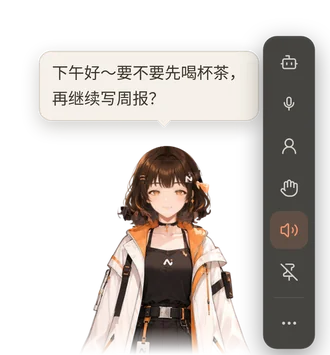
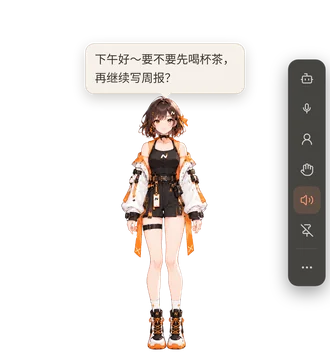
site: v1.0.3 — new mascot + refreshed app screenshots (packaged 1.0.3), add v1.0.3 changelog (zh+en), point download links to v1.0.3, bump cache-bust

diff --git a/js/i18n.js b/js/i18n.js
@@ -56,7 +56,7 @@
       "features.title": "桌面上的完整 AI 工作台",
       "features.lead": "从对话到自动化，从云端到完全离线——按你的方式使用。",
       "features.mascot.title": "桌面伙伴",
-      "features.mascot.desc": "会眨眼、会呼吸的分层立绘；摸头互动、对话气泡、拖文件总结。",
+      "features.mascot.desc": "全身 Rive 角色：会眨眼、挥手、有表情，说话时口型同步；摸头互动、对话气泡、拖文件总结。",
       "features.chat.title": "AI 对话",
       "features.chat.desc": "流式输出、会话列表、框选屏幕提问，干净好用的对话窗口。",
       "features.providers.title": "多供应商",
@@ -253,8 +253,15 @@
       "cl.lead": "Nomi·诺米 每个版本的更新内容，最新版本在前。",
       "cl.release": "查看 GitHub Release →",
       "meta.changelog.title": "更新日志 — Nomi·诺米",
-      "meta.changelog.desc": "Nomi·诺米各版本更新日志：v1.0.2、v1.0.1、v1.0.0。",
+      "meta.changelog.desc": "Nomi·诺米各版本更新日志：v1.0.3、v1.0.2、v1.0.1、v1.0.0。",
       "nav.changelog": "更新日志",
+      "cl.v103.title": "v1.0.3 — 全新看板娘、斜杠命令与性能提升",
+      "cl.v103.i1": "看板娘全新升级：桌面角色换成全身 Rive 角色，分层服装与手臂协同运动（挥手、问好、欢呼），有表情、眨眼，说话时口型同步；Rive 无法启动时自动回退到分层 2D 渲染器。",
+      "cl.v103.i2": "看板娘可调大小：约 30%–150%（受屏幕限制），支持 Ctrl/⌘ + 滚轮、Ctrl/⌘ + + / - / 0、右键菜单与「设置 → 通用 → 看板娘大小」滑块；脚底位置不动，大小会被记住。",
+      "cl.v103.i3": "所有对话支持斜杠命令：在 Nomi、Claude Code、Codex、Grok、dsh 中输入 / 即可打开分组、可模糊搜索的命令面板；/context、/cost、/status、/model 等在本地执行并以卡片显示，未知命令不会被误发给模型。",
+      "cl.v103.i4": "所有对话同一套视图，并新增 Grok Build 编程助手端点：紧凑工具行、可折叠分组、彩色 diff、等待状态与每轮耗时 / Token / 费用；订阅额度改为按工具的卡片，开发模式新增端点信息卡。",
+      "cl.v103.i5": "性能：切换会话中位延迟 252 ms → 27 ms，流式回复主线程占用 34.8% → 8.8%，对话窗口首屏 JS 由 901 KB 降到 737 KB；空闲 30 分钟的 Claude Code 进程会自动回收并在下一条消息续接。",
+      "cl.v103.i6": "修复与行为变化：「分叉为新对话」立即显示在侧栏；看板娘气泡不再显示原始 Markdown；「没有找到可用的麦克风」提示自动消失；TTS 不再回退到系统语音；默认唤醒词改为「你好，诺米」。",
       "cl.v102.title": "v1.0.2 — 用量统计与体验改进",
       "cl.v102.i1": "用量与费用：统计 Nomi 对话与本机编程工具（Claude Code、Codex、dsh、Gemini CLI、Qwen Code、OpenCode、GitHub Copilot CLI、Kimi、Aider）的 Token 用量与预估费用，含趋势、分布、年度热力图、CSV 导出与可编辑价格表；数据只保存在本机，日 / 月预算在 80% 与 100% 时提醒。",
       "cl.v102.i2": "同步价格与订阅额度：仅在点击时下载 models.dev 公开价格表；订阅额度卡片的“刷新”由官方 CLI 用自己的登录态获取，Nomi 不读取、不保存登录凭据，也不在后台轮询。",
@@ -327,7 +334,7 @@
       "features.title": "A full AI workbench on your desktop",
       "features.lead": "From chat to automation, cloud to fully offline — use it your way.",
       "features.mascot.title": "Desktop companion",
-      "features.mascot.desc": "Layered art that blinks and breathes; head pats, speech bubbles, drag files to summarize.",
+      "features.mascot.desc": "A full-body Rive character that blinks, waves, emotes and lip-syncs; head pats, speech bubbles, drag files to summarize.",
       "features.chat.title": "AI chat",
       "features.chat.desc": "Streaming replies, session list, screen-region questions — a clean chat window.",
       "features.providers.title": "Multi-provider",
@@ -524,8 +531,15 @@
       "cl.lead": "What changed in each Nomi release, newest first.",
       "cl.release": "View on GitHub Release →",
       "meta.changelog.title": "Changelog — Nomi",
-      "meta.changelog.desc": "Nomi release notes: v1.0.2, v1.0.1 and v1.0.0.",
+      "meta.changelog.desc": "Nomi release notes: v1.0.3, v1.0.2, v1.0.1 and v1.0.0.",
       "nav.changelog": "Changelog",
+      "cl.v103.title": "v1.0.3 — new mascot, slash commands and speed",
+      "cl.v103.i1": "A brand-new mascot: the desktop character is now a full-body Rive character with layered clothing and arms that move together (wave, hello, cheer), facial expressions, blinking and lip-sync while she talks; if Rive cannot start, Nomi falls back to the layered 2D renderer.",
+      "cl.v103.i2": "Resizable mascot: about 30%–150% (capped by your display) with Ctrl/⌘ + scroll, Ctrl/⌘ + + / - / 0, the right-click menu and the Settings → General → Mascot size slider; her feet stay put and the size is remembered.",
+      "cl.v103.i3": "Slash commands everywhere: type / in Nomi, Claude Code, Codex, Grok or dsh for a grouped, fuzzy-searchable palette; /context, /cost, /status, /model and more run locally and show as cards, and unknown commands are never sent to the model by accident.",
+      "cl.v103.i4": "One conversation view for everything, plus a Grok Build coding-agent endpoint: compact tool rows, foldable groups, coloured diffs, waiting states and per-turn duration / tokens / cost; subscription quota is now per-tool cards, and dev mode gets an endpoint info card.",
+      "cl.v103.i5": "Performance: median conversation-switch latency 252 ms → 27 ms, main-thread busy time while streaming 34.8% → 8.8%, the chat window's entry JS 901 KB → 737 KB; a Claude Code process idle for 30 minutes is reclaimed and resumed on the next message.",
+      "cl.v103.i6": "Fixes and behavior changes: Fork as new chat shows up in the sidebar at once; the mascot speech bubble no longer shows raw Markdown; the “No microphone found” message dismisses itself; TTS no longer falls back to system speech; the default wake phrase is now 你好，诺米.",
       "cl.v102.title": "v1.0.2 — usage tracking and polish",
       "cl.v102.i1": "Usage & cost: token usage and estimated cost for Nomi chats and your local coding tools (Claude Code, Codex, dsh, Gemini CLI, Qwen Code, OpenCode, GitHub Copilot CLI, Kimi, Aider), with trends, breakdowns, a yearly heatmap, CSV export and an editable price table. Data stays on your computer; daily / monthly budget alerts at 80% and 100%.",
       "cl.v102.i2": "Price sync and subscription quota: the public models.dev price table is downloaded only when you click; the quota card's Refresh asks the official CLI to fetch it with its own login — Nomi never reads or stores your credentials and never polls in the background.",

diff --git a/download.html b/download.html
@@ -8,7 +8,7 @@
   <title>下载 — Nomi·诺米</title>
   <link rel="icon" href="assets/brand/nomi-mark.svg" type="image/svg+xml" />
   <link rel="preload" href="assets/fonts/nunito-latin.woff2" as="font" type="font/woff2" crossorigin />
-  <link rel="stylesheet" href="css/styles.css?v=20261016e" />
+  <link rel="stylesheet" href="css/styles.css?v=20261018a" />
 </head>
 <body data-page="download">
   <header class="site-header">
@@ -55,26 +55,26 @@
           <article class="platform-card">
             <div class="os-icon" aria-hidden="true"><svg viewBox="0 0 24 24" fill="currentColor" aria-hidden="true"><path d="M3 5.5L10.5 4.4v7.1H3V5.5zm0 13L10.5 19.6v-7.1H3v6zm8.2-13.2L21 3v8.5h-9.8V5.3zM12.2 19.7L21 21v-8.5h-8.8v7.2z"/></svg></div>
             <h3>Windows</h3>
-            <p class="pkg">Nomi-Setup-1.0.2.exe</p>
+            <p class="pkg">Nomi-Setup-1.0.3.exe</p>
             <p class="req" data-i18n="dl.windows.req">Windows 10 及以上</p>
-            <a class="btn btn-primary" id="dl-win" href="https://github.com/Cookieboty/nomi-ai/releases/download/v1.0.2/Nomi-Setup-1.0.2.exe" rel="noopener noreferrer" target="_blank" data-i18n="dl.download">下载安装包</a>
+            <a class="btn btn-primary" id="dl-win" href="https://github.com/Cookieboty/nomi-ai/releases/download/v1.0.3/Nomi-Setup-1.0.3.exe" rel="noopener noreferrer" target="_blank" data-i18n="dl.download">下载安装包</a>
           </article>
           <article class="platform-card">
             <div class="os-icon" aria-hidden="true"><svg viewBox="0 0 24 24" fill="currentColor" aria-hidden="true"><path d="M16.7 12.6c0-2.1 1.7-3.1 1.8-3.2-1-1.4-2.5-1.6-3-1.7-1.3-.1-2.5.8-3.1.8-.7 0-1.7-.7-2.8-.7-1.4 0-2.8.9-3.5 2.2-1.5 2.6-.4 6.5 1.1 8.6.7 1 1.6 2.2 2.7 2.1 1.1 0 1.5-.7 2.8-.7s1.7.7 2.8.7c1.2 0 1.9-1 2.6-2 .8-1.2 1.1-2.3 1.1-2.4-.1 0-2.2-.9-2.2-3.7zM14.8 6.5c.6-.7 1-1.7.9-2.7-.9 0-1.9.6-2.5 1.3-.6.6-1.1 1.7-.9 2.6 1 .1 1.9-.5 2.5-1.2z"/></svg></div>
             <h3>macOS</h3>
-            <p class="pkg">Nomi-1.0.2-arm64.dmg<br />Nomi-1.0.2.dmg</p>
+            <p class="pkg">Nomi-1.0.3-arm64.dmg<br />Nomi-1.0.3.dmg</p>
             <p class="req" data-i18n="dl.mac.req">Apple Silicon / Intel</p>
             <div class="dl-row">
-              <a class="btn btn-primary" id="dl-mac-arm64" href="https://github.com/Cookieboty/nomi-ai/releases/download/v1.0.2/Nomi-1.0.2-arm64.dmg" rel="noopener noreferrer" target="_blank">Apple Silicon</a>
-              <a class="btn btn-primary" id="dl-mac-x64" href="https://github.com/Cookieboty/nomi-ai/releases/download/v1.0.2/Nomi-1.0.2.dmg" rel="noopener noreferrer" target="_blank">Intel</a>
+              <a class="btn btn-primary" id="dl-mac-arm64" href="https://github.com/Cookieboty/nomi-ai/releases/download/v1.0.3/Nomi-1.0.3-arm64.dmg" rel="noopener noreferrer" target="_blank">Apple Silicon</a>
+              <a class="btn btn-primary" id="dl-mac-x64" href="https://github.com/Cookieboty/nomi-ai/releases/download/v1.0.3/Nomi-1.0.3.dmg" rel="noopener noreferrer" target="_blank">Intel</a>
             </div>
           </article>
           <article class="platform-card">
             <div class="os-icon" aria-hidden="true"><svg viewBox="0 0 24 24" fill="currentColor" aria-hidden="true"><path d="M12.5 2c-1.2 0-2.1 1.4-1.9 2.7.1.6.3 1.2.3 1.8 0 .4-.2.8-.3 1.2-.5 1.3-.2 2.3.7 3.2.2.2.3.5.2.8-.2.8-.5 1.5-.5 2.4 0 2.1 1.6 3.6 3.8 3.6 2.5 0 4-1.8 4-4.1 0-1.5-.6-2.7-1.1-3.7-.2-.4-.2-.8 0-1.2.5-1.1.7-2.2.4-3.4C17.8 3.1 16.4 2 14.8 2c-.8 0-1.5.3-2 .8-.1-.3-.2-.5-.3-.8zM8.6 14.2c-.9 0-1.8.4-2.4 1.1C5.2 16.3 5 17.7 5.4 19c.5 1.5 1.8 2.5 3.4 2.5.6 0 1.1-.1 1.6-.4.4 1.2 1.5 2 2.8 2 1 0 1.9-.5 2.4-1.3.6.3 1.2.4 1.9.4 1.8 0 3.3-1.2 3.7-2.9.3-1.3-.1-2.6-1-3.5-.7-.7-1.6-1.1-2.6-1.1-.5 0-1 .1-1.4.3-.5-.9-1.5-1.5-2.6-1.5-.9 0-1.7.4-2.3 1.1-.5-.7-1.3-1.1-2.1-1.1z"/></svg></div>
             <h3>Linux</h3>
-            <p class="pkg">Nomi-1.0.2.AppImage</p>
+            <p class="pkg">Nomi-1.0.3.AppImage</p>
             <p class="req" data-i18n="dl.linux.req">x64 AppImage</p>
-            <a class="btn btn-primary" id="dl-linux" href="https://github.com/Cookieboty/nomi-ai/releases/download/v1.0.2/Nomi-1.0.2.AppImage" rel="noopener noreferrer" target="_blank" data-i18n="dl.download">下载安装包</a>
+            <a class="btn btn-primary" id="dl-linux" href="https://github.com/Cookieboty/nomi-ai/releases/download/v1.0.3/Nomi-1.0.3.AppImage" rel="noopener noreferrer" target="_blank" data-i18n="dl.download">下载安装包</a>
           </article>
         </div>
         <p class="note"><span data-i18n="dl.note">Linux、Windows 与 macOS 安装包均可下载。也可打开</span> <a id="dl-release" href="https://github.com/Cookieboty/nomi-ai/releases/latest" rel="noopener noreferrer" target="_blank" data-i18n="dl.latest">GitHub 最新 Release</a>。</p>
@@ -155,7 +155,7 @@
       </div>
     </div>
   </footer>
-  <script src="js/i18n.js?v=20261016e"></script>
-  <script src="js/main.js?v=20261016e"></script>
+  <script src="js/i18n.js?v=20261018a"></script>
+  <script src="js/main.js?v=20261018a"></script>
 </body>
 </html>

diff --git a/index.html b/index.html
@@ -12,7 +12,7 @@
   <link rel="icon" href="assets/brand/nomi-mark.svg" type="image/svg+xml" />
   <link rel="preload" href="assets/fonts/nunito-latin.woff2" as="font" type="font/woff2" crossorigin />
   <link rel="preload" as="image" href="assets/brand/nomi-brand-avatar-440.webp" imagesrcset="assets/brand/nomi-brand-avatar-440.webp 440w, assets/brand/nomi-brand-avatar-880.webp 880w" imagesizes="(max-width: 500px) calc(100vw - 6rem), 413px" fetchpriority="high" />
-  <link rel="stylesheet" href="css/styles.css?v=20261016e" />
+  <link rel="stylesheet" href="css/styles.css?v=20261018a" />
 </head>
 <body data-page="home" id="top">
   <header class="site-header">
@@ -238,26 +238,26 @@
           <article class="platform-card">
             <div class="os-icon" aria-hidden="true"><svg viewBox="0 0 24 24" fill="currentColor" aria-hidden="true"><path d="M3 5.5L10.5 4.4v7.1H3V5.5zm0 13L10.5 19.6v-7.1H3v6zm8.2-13.2L21 3v8.5h-9.8V5.3zM12.2 19.7L21 21v-8.5h-8.8v7.2z"/></svg></div>
             <h3>Windows</h3>
-            <p class="pkg">Nomi-Setup-1.0.2.exe</p>
+            <p class="pkg">Nomi-Setup-1.0.3.exe</p>
             <p class="req" data-i18n="dl.windows.req">Windows 10 及以上</p>
-            <a class="btn btn-primary" id="dl-win" href="https://github.com/Cookieboty/nomi-ai/releases/download/v1.0.2/Nomi-Setup-1.0.2.exe" rel="noopener noreferrer" target="_blank" data-i18n="dl.download">下载安装包</a>
+            <a class="btn btn-primary" id="dl-win" href="https://github.com/Cookieboty/nomi-ai/releases/download/v1.0.3/Nomi-Setup-1.0.3.exe" rel="noopener noreferrer" target="_blank" data-i18n="dl.download">下载安装包</a>
           </article>
           <article class="platform-card">
             <div class="os-icon" aria-hidden="true"><svg viewBox="0 0 24 24" fill="currentColor" aria-hidden="true"><path d="M16.7 12.6c0-2.1 1.7-3.1 1.8-3.2-1-1.4-2.5-1.6-3-1.7-1.3-.1-2.5.8-3.1.8-.7 0-1.7-.7-2.8-.7-1.4 0-2.8.9-3.5 2.2-1.5 2.6-.4 6.5 1.1 8.6.7 1 1.6 2.2 2.7 2.1 1.1 0 1.5-.7 2.8-.7s1.7.7 2.8.7c1.2 0 1.9-1 2.6-2 .8-1.2 1.1-2.3 1.1-2.4-.1 0-2.2-.9-2.2-3.7zM14.8 6.5c.6-.7 1-1.7.9-2.7-.9 0-1.9.6-2.5 1.3-.6.6-1.1 1.7-.9 2.6 1 .1 1.9-.5 2.5-1.2z"/></svg></div>
             <h3>macOS</h3>
-            <p class="pkg">Nomi-1.0.2-arm64.dmg<br />Nomi-1.0.2.dmg</p>
+            <p class="pkg">Nomi-1.0.3-arm64.dmg<br />Nomi-1.0.3.dmg</p>
             <p class="req" data-i18n="dl.mac.req">Apple Silicon / Intel</p>
             <div class="dl-row">
-              <a class="btn btn-primary" id="dl-mac-arm64" href="https://github.com/Cookieboty/nomi-ai/releases/download/v1.0.2/Nomi-1.0.2-arm64.dmg" rel="noopener noreferrer" target="_blank">Apple Silicon</a>
-              <a class="btn btn-primary" id="dl-mac-x64" href="https://github.com/Cookieboty/nomi-ai/releases/download/v1.0.2/Nomi-1.0.2.dmg" rel="noopener noreferrer" target="_blank">Intel</a>
+              <a class="btn btn-primary" id="dl-mac-arm64" href="https://github.com/Cookieboty/nomi-ai/releases/download/v1.0.3/Nomi-1.0.3-arm64.dmg" rel="noopener noreferrer" target="_blank">Apple Silicon</a>
+              <a class="btn btn-primary" id="dl-mac-x64" href="https://github.com/Cookieboty/nomi-ai/releases/download/v1.0.3/Nomi-1.0.3.dmg" rel="noopener noreferrer" target="_blank">Intel</a>
             </div>
           </article>
           <article class="platform-card">
             <div class="os-icon" aria-hidden="true"><svg viewBox="0 0 24 24" fill="currentColor" aria-hidden="true"><path d="M12.5 2c-1.2 0-2.1 1.4-1.9 2.7.1.6.3 1.2.3 1.8 0 .4-.2.8-.3 1.2-.5 1.3-.2 2.3.7 3.2.2.2.3.5.2.8-.2.8-.5 1.5-.5 2.4 0 2.1 1.6 3.6 3.8 3.6 2.5 0 4-1.8 4-4.1 0-1.5-.6-2.7-1.1-3.7-.2-.4-.2-.8 0-1.2.5-1.1.7-2.2.4-3.4C17.8 3.1 16.4 2 14.8 2c-.8 0-1.5.3-2 .8-.1-.3-.2-.5-.3-.8zM8.6 14.2c-.9 0-1.8.4-2.4 1.1C5.2 16.3 5 17.7 5.4 19c.5 1.5 1.8 2.5 3.4 2.5.6 0 1.1-.1 1.6-.4.4 1.2 1.5 2 2.8 2 1 0 1.9-.5 2.4-1.3.6.3 1.2.4 1.9.4 1.8 0 3.3-1.2 3.7-2.9.3-1.3-.1-2.6-1-3.5-.7-.7-1.6-1.1-2.6-1.1-.5 0-1 .1-1.4.3-.5-.9-1.5-1.5-2.6-1.5-.9 0-1.7.4-2.3 1.1-.5-.7-1.3-1.1-2.1-1.1z"/></svg></div>
             <h3>Linux</h3>
-            <p class="pkg">Nomi-1.0.2.AppImage</p>
+            <p class="pkg">Nomi-1.0.3.AppImage</p>
             <p class="req" data-i18n="dl.linux.req">x64 AppImage</p>
-            <a class="btn btn-primary" id="dl-linux" href="https://github.com/Cookieboty/nomi-ai/releases/download/v1.0.2/Nomi-1.0.2.AppImage" rel="noopener noreferrer" target="_blank" data-i18n="dl.download">下载安装包</a>
+            <a class="btn btn-primary" id="dl-linux" href="https://github.com/Cookieboty/nomi-ai/releases/download/v1.0.3/Nomi-1.0.3.AppImage" rel="noopener noreferrer" target="_blank" data-i18n="dl.download">下载安装包</a>
           </article>
         </div>
         
@@ -302,7 +302,7 @@
       </div>
     </div>
   </footer>
-  <script src="js/i18n.js?v=20261016e"></script>
-  <script src="js/main.js?v=20261016e"></script>
+  <script src="js/i18n.js?v=20261018a"></script>
+  <script src="js/main.js?v=20261018a"></script>
 </body>
 </html>

diff --git a/changelog.html b/changelog.html
@@ -11,7 +11,7 @@
   <title>更新日志 — Nomi·诺米</title>
   <link rel="icon" href="assets/brand/nomi-mark.svg" type="image/svg+xml" />
   <link rel="preload" href="assets/fonts/nunito-latin.woff2" as="font" type="font/woff2" crossorigin />
-  <link rel="stylesheet" href="css/styles.css?v=20261016e" />
+  <link rel="stylesheet" href="css/styles.css?v=20261018a" />
 </head>
 <body data-page="changelog" id="top">
   <header class="site-header">
@@ -54,6 +54,21 @@
 
     <section class="section section-tight">
       <div class="container changelog">
+        <article class="release" id="v103">
+          <header class="release-head">
+            <h2 data-i18n="cl.v103.title">v1.0.3 — 全新看板娘、斜杠命令与性能提升</h2>
+            <time datetime="2026-10-18">2026-10-18</time>
+          </header>
+          <ul class="release-list">
+            <li data-i18n="cl.v103.i1">看板娘全新升级：桌面角色换成全身 Rive 角色，分层服装与手臂协同运动（挥手、问好、欢呼），有表情、眨眼，说话时口型同步；Rive 无法启动时自动回退到分层 2D 渲染器。</li>
+            <li data-i18n="cl.v103.i2">看板娘可调大小：约 30%–150%（受屏幕限制），支持 Ctrl/⌘ + 滚轮、Ctrl/⌘ + + / - / 0、右键菜单与「设置 → 通用 → 看板娘大小」滑块；脚底位置不动，大小会被记住。</li>
+            <li data-i18n="cl.v103.i3">所有对话支持斜杠命令：在 Nomi、Claude Code、Codex、Grok、dsh 中输入 / 即可打开分组、可模糊搜索的命令面板；/context、/cost、/status、/model 等在本地执行并以卡片显示，未知命令不会被误发给模型。</li>
+            <li data-i18n="cl.v103.i4">所有对话同一套视图，并新增 Grok Build 编程助手端点：紧凑工具行、可折叠分组、彩色 diff、等待状态与每轮耗时 / Token / 费用；订阅额度改为按工具的卡片，开发模式新增端点信息卡。</li>
+            <li data-i18n="cl.v103.i5">性能：切换会话中位延迟 252 ms → 27 ms，流式回复主线程占用 34.8% → 8.8%，对话窗口首屏 JS 由 901 KB 降到 737 KB；空闲 30 分钟的 Claude Code 进程会自动回收并在下一条消息续接。</li>
+            <li data-i18n="cl.v103.i6">修复与行为变化：「分叉为新对话」立即显示在侧栏；看板娘气泡不再显示原始 Markdown；「没有找到可用的麦克风」提示自动消失；TTS 不再回退到系统语音；默认唤醒词改为「你好，诺米」。</li>
+          </ul>
+          <a class="link-arrow" href="https://github.com/Cookieboty/nomi-ai/releases/tag/v1.0.3" rel="noopener noreferrer" target="_blank" data-i18n="cl.release">查看 GitHub Release →</a>
+        </article>
         <article class="release" id="v102">
           <header class="release-head">
             <h2 data-i18n="cl.v102.title">v1.0.2 — 用量统计与体验改进</h2>
@@ -138,7 +153,7 @@
       </div>
     </div>
   </footer>
-  <script src="js/i18n.js?v=20261016e"></script>
-  <script src="js/main.js?v=20261016e"></script>
+  <script src="js/i18n.js?v=20261018a"></script>
+  <script src="js/main.js?v=20261018a"></script>
 </body>
 </html>

diff --git a/features.html b/features.html
@@ -9,7 +9,7 @@
   <link rel="icon" href="assets/brand/nomi-mark.svg" type="image/svg+xml" />
   <link rel="preload" href="assets/fonts/nunito-latin.woff2" as="font" type="font/woff2" crossorigin />
   <script>document.documentElement.className+=" js"</script>
-  <link rel="stylesheet" href="css/styles.css?v=20261016e" />
+  <link rel="stylesheet" href="css/styles.css?v=20261018a" />
 </head>
 <body data-page="features">
   <header class="site-header">
@@ -213,8 +213,8 @@
       </div>
     </div>
   </footer>
-  <script src="js/i18n.js?v=20261016e"></script>
-  <script src="js/main.js?v=20261016e"></script>
-  <script src="js/features.js?v=20261016e"></script>
+  <script src="js/i18n.js?v=20261018a"></script>
+  <script src="js/main.js?v=20261018a"></script>
+  <script src="js/features.js?v=20261018a"></script>
 </body>
 </html>

diff --git a/privacy.html b/privacy.html
@@ -8,7 +8,7 @@
   <title>隐私 — Nomi·诺米</title>
   <link rel="icon" href="assets/brand/nomi-mark.svg" type="image/svg+xml" />
   <link rel="preload" href="assets/fonts/nunito-latin.woff2" as="font" type="font/woff2" crossorigin />
-  <link rel="stylesheet" href="css/styles.css?v=20261016e" />
+  <link rel="stylesheet" href="css/styles.css?v=20261018a" />
 </head>
 <body data-page="privacy">
   <header class="site-header">
@@ -112,7 +112,7 @@
       </div>
     </div>
   </footer>
-  <script src="js/i18n.js?v=20261016e"></script>
-  <script src="js/main.js?v=20261016e"></script>
+  <script src="js/i18n.js?v=20261018a"></script>
+  <script src="js/main.js?v=20261018a"></script>
 </body>
 </html>

diff --git a/docs.html b/docs.html
@@ -8,7 +8,7 @@
   <title>文档 — Nomi·诺米</title>
   <link rel="icon" href="assets/brand/nomi-mark.svg" type="image/svg+xml" />
   <link rel="preload" href="assets/fonts/nunito-latin.woff2" as="font" type="font/woff2" crossorigin />
-  <link rel="stylesheet" href="css/styles.css?v=20261016e" />
+  <link rel="stylesheet" href="css/styles.css?v=20261018a" />
 </head>
 <body data-page="docs">
   <header class="site-header">
@@ -234,7 +234,7 @@
       </div>
     </div>
   </footer>
-  <script src="js/i18n.js?v=20261016e"></script>
-  <script src="js/main.js?v=20261016e"></script>
+  <script src="js/i18n.js?v=20261018a"></script>
+  <script src="js/main.js?v=20261018a"></script>
 </body>
 </html>

diff --git a/README.md b/README.md
@@ -8,4 +8,4 @@
 - `css/`、`js/`、`assets/` — 样式、脚本（`i18n.js` 中英文词典，zh 与 en 键必须一致）、品牌与截图
 - `assets/fonts/` — 自托管 Nunito 子集（无外部字体请求）
 - 图片为 WebP（及 OG 用 JPG）；原始大图不放在站点中。
-- 下载按钮默认指向 v1.0.1 资源，页面加载时通过 GitHub API 自动指向最新 Release（首页与下载页均生效）。
+- 下载按钮默认指向 v1.0.3 资源，页面加载时通过 GitHub API 自动指向最新 Release（首页与下载页均生效）。
